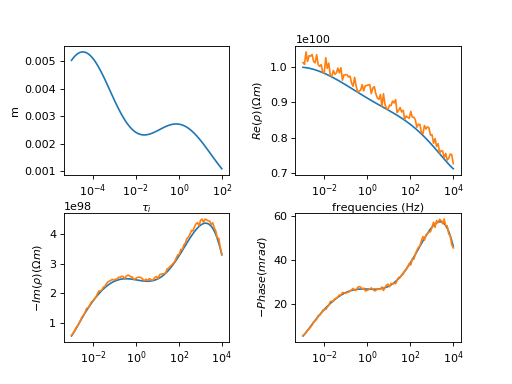
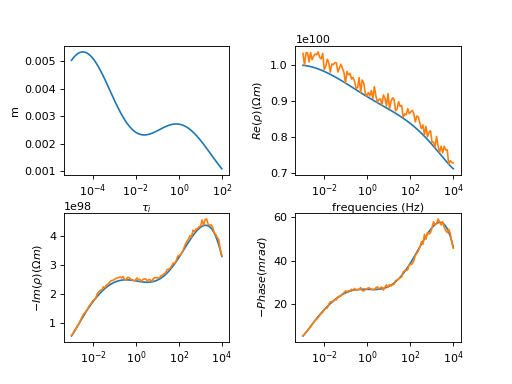
[by travis] update documentation

diff --git a/doc_ccd/_modules/lib_dd/plot.html b/doc_ccd/_modules/lib_dd/plot.html
@@ -54,8 +54,8 @@
 <span class="kn">import</span> <span class="nn">logging</span>
 
 <span class="kn">import</span> <span class="nn">NDimInv.plot_helper</span>
-<span class="n">plt</span><span class="p">,</span> <span class="n">mpl</span> <span class="o">=</span> <span class="n">NDimInv</span><span class="o">.</span><span class="n">plot_helper</span><span class="o">.</span><span class="n">setup</span><span class="p">()</span>
 <span class="kn">import</span> <span class="nn">sip_formats.convert</span> <span class="k">as</span> <span class="nn">sip_convert</span>
+<span class="n">plt</span><span class="p">,</span> <span class="n">mpl</span> <span class="o">=</span> <span class="n">NDimInv</span><span class="o">.</span><span class="n">plot_helper</span><span class="o">.</span><span class="n">setup</span><span class="p">()</span>
 
 
 <div class="viewcode-block" id="plot_iteration"><a class="viewcode-back" href="../../api/lib_dd.html#lib_dd.plot.plot_iteration">[docs]</a><span class="k">class</span> <span class="nc">plot_iteration</span><span class="p">():</span>
@@ -137,7 +137,7 @@
 
         <span class="n">D</span> <span class="o">=</span> <span class="n">it</span><span class="o">.</span><span class="n">Data</span><span class="o">.</span><span class="n">D</span> <span class="o">/</span> <span class="bp">self</span><span class="o">.</span><span class="n">norm_factors</span>
         <span class="n">M</span> <span class="o">=</span> <span class="n">it</span><span class="o">.</span><span class="n">Model</span><span class="o">.</span><span class="n">convert_to_M</span><span class="p">(</span><span class="n">it</span><span class="o">.</span><span class="n">m</span><span class="p">)</span>
-        <span class="c1"># renormalize here? why do we compuate the forward solution again?</span>
+        <span class="c1"># renormalize here? why do we compute the forward solution again?</span>
         <span class="n">F</span> <span class="o">=</span> <span class="n">it</span><span class="o">.</span><span class="n">Model</span><span class="o">.</span><span class="n">F</span><span class="p">(</span><span class="n">M</span><span class="p">)</span> <span class="o">/</span> <span class="bp">self</span><span class="o">.</span><span class="n">norm_factors</span>
         <span class="n">extra_size</span> <span class="o">=</span> <span class="nb">int</span><span class="p">(</span>
             <span class="n">np</span><span class="o">.</span><span class="n">sum</span><span class="p">([</span><span class="n">x</span><span class="p">[</span><span class="mi">1</span><span class="p">][</span><span class="mi">1</span><span class="p">]</span> <span class="k">for</span> <span class="n">x</span> <span class="ow">in</span> <span class="n">it</span><span class="o">.</span><span class="n">Data</span><span class="o">.</span><span class="n">extra_dims</span><span class="o">.</span><span class="n">items</span><span class="p">()]))</span>
@@ -152,6 +152,8 @@
             <span class="bp">self</span><span class="o">.</span><span class="n">_plot_rtd</span><span class="p">(</span><span class="n">nr</span><span class="p">,</span> <span class="n">axes</span><span class="p">[</span><span class="n">nr</span><span class="p">,</span> <span class="mi">4</span><span class="p">],</span> <span class="n">M</span><span class="p">[</span><span class="n">m</span><span class="p">],</span> <span class="n">it</span><span class="p">)</span>
             <span class="n">ax1</span> <span class="o">=</span> <span class="n">axes</span><span class="p">[</span><span class="n">nr</span><span class="p">,</span> <span class="mi">0</span><span class="p">]</span><span class="o">.</span><span class="n">twinx</span><span class="p">()</span>
             <span class="n">ax2</span> <span class="o">=</span> <span class="n">axes</span><span class="p">[</span><span class="n">nr</span><span class="p">,</span> <span class="mi">1</span><span class="p">]</span><span class="o">.</span><span class="n">twinx</span><span class="p">()</span>
+            <span class="k">for</span> <span class="n">ax</span> <span class="ow">in</span> <span class="p">(</span><span class="n">ax1</span><span class="p">,</span> <span class="n">ax2</span><span class="p">):</span>
+                <span class="n">ax</span><span class="o">.</span><span class="n">grid</span><span class="p">(</span><span class="kc">None</span><span class="p">)</span>
             <span class="bp">self</span><span class="o">.</span><span class="n">_plot_cre_cim</span><span class="p">(</span><span class="n">nr</span><span class="p">,</span> <span class="p">[</span><span class="n">ax1</span><span class="p">,</span> <span class="n">ax2</span><span class="p">],</span> <span class="n">D</span><span class="p">[</span><span class="n">d</span><span class="p">],</span> <span class="n">F</span><span class="p">[</span><span class="n">d</span><span class="p">],</span> <span class="n">it</span><span class="p">)</span>
 
         <span class="bp">self</span><span class="o">.</span><span class="n">finalize_fig</span><span class="p">()</span>
@@ -262,7 +264,7 @@
         <span class="n">ax</span><span class="o">.</span><span class="n">semilogx</span><span class="p">(</span><span class="n">frequencies</span><span class="p">,</span> <span class="n">rre_rim_orig</span><span class="p">[:,</span> <span class="mi">0</span><span class="p">],</span> <span class="s1">&#39;.&#39;</span><span class="p">,</span> <span class="n">color</span><span class="o">=</span><span class="s1">&#39;k&#39;</span><span class="p">)</span>
         <span class="n">ax</span><span class="o">.</span><span class="n">semilogx</span><span class="p">(</span><span class="n">frequencies</span><span class="p">,</span> <span class="n">rre_rim_fit</span><span class="p">[:,</span> <span class="mi">0</span><span class="p">],</span> <span class="s1">&#39;-&#39;</span><span class="p">,</span> <span class="n">color</span><span class="o">=</span><span class="s1">&#39;k&#39;</span><span class="p">)</span>
         <span class="n">ax</span><span class="o">.</span><span class="n">set_xlabel</span><span class="p">(</span><span class="s1">&#39;frequency [Hz]&#39;</span><span class="p">)</span>
-        <span class="n">ax</span><span class="o">.</span><span class="n">set_ylabel</span><span class="p">(</span><span class="sa">r</span><span class="s2">&quot;$-\rho&#39;~[\Omega m]$&quot;</span><span class="p">)</span>
+        <span class="n">ax</span><span class="o">.</span><span class="n">set_ylabel</span><span class="p">(</span><span class="sa">r</span><span class="s2">&quot;$\rho&#39;~[\Omega m]$&quot;</span><span class="p">)</span>
         <span class="n">ax</span><span class="o">.</span><span class="n">xaxis</span><span class="o">.</span><span class="n">set_major_locator</span><span class="p">(</span><span class="n">mpl</span><span class="o">.</span><span class="n">ticker</span><span class="o">.</span><span class="n">LogLocator</span><span class="p">(</span><span class="n">numticks</span><span class="o">=</span><span class="mi">4</span><span class="p">))</span>
 
         <span class="n">ax</span> <span class="o">=</span> <span class="n">axes</span><span class="p">[</span><span class="mi">1</span><span class="p">]</span>
@@ -271,7 +273,7 @@
         <span class="n">ax</span><span class="o">.</span><span class="n">semilogx</span><span class="p">(</span><span class="n">frequencies</span><span class="p">,</span> <span class="o">-</span><span class="n">rre_rim_fit</span><span class="p">[:,</span> <span class="mi">1</span><span class="p">],</span> <span class="s1">&#39;-&#39;</span><span class="p">,</span> <span class="n">color</span><span class="o">=</span><span class="s1">&#39;k&#39;</span><span class="p">,</span>
                     <span class="n">label</span><span class="o">=</span><span class="s1">&#39;fit&#39;</span><span class="p">)</span>
         <span class="n">ax</span><span class="o">.</span><span class="n">set_xlabel</span><span class="p">(</span><span class="s1">&#39;frequency [Hz]&#39;</span><span class="p">)</span>
-        <span class="n">ax</span><span class="o">.</span><span class="n">set_ylabel</span><span class="p">(</span><span class="sa">r</span><span class="s2">&quot;$-\rho&#39;&#39;~[\Omega m]$&quot;</span><span class="p">)</span>
+        <span class="n">ax</span><span class="o">.</span><span class="n">set_ylabel</span><span class="p">(</span><span class="sa">r</span><span class="s2">&quot;$\rho&#39;&#39;~[\Omega m]$&quot;</span><span class="p">)</span>
         <span class="n">ax</span><span class="o">.</span><span class="n">xaxis</span><span class="o">.</span><span class="n">set_major_locator</span><span class="p">(</span><span class="n">mpl</span><span class="o">.</span><span class="n">ticker</span><span class="o">.</span><span class="n">LogLocator</span><span class="p">(</span><span class="n">numticks</span><span class="o">=</span><span class="mi">4</span><span class="p">))</span>
 
         <span class="bp">self</span><span class="o">.</span><span class="n">_mark_tau_parameters_f</span><span class="p">(</span><span class="n">nr</span><span class="p">,</span> <span class="n">ax</span><span class="p">,</span> <span class="n">it</span><span class="p">)</span>
@@ -295,7 +297,7 @@
                     <span class="n">ax</span><span class="o">.</span><span class="n">axvline</span><span class="p">(</span><span class="n">x</span><span class="o">=</span><span class="mi">10</span><span class="o">**</span><span class="n">tpeak</span><span class="p">,</span> <span class="n">color</span><span class="o">=</span><span class="s1">&#39;k&#39;</span><span class="p">,</span> <span class="n">label</span><span class="o">=</span><span class="sa">r</span><span class="s1">&#39;$\tau_</span><span class="si">{peak}</span><span class="s1">^&#39;</span> <span class="o">+</span>
                                <span class="s1">&#39;</span><span class="si">{0}</span><span class="s1">&#39;</span><span class="o">.</span><span class="n">format</span><span class="p">(</span><span class="n">index</span><span class="p">)</span> <span class="o">+</span> <span class="s1">&#39;$&#39;</span><span class="p">,</span>
                                <span class="n">linestyle</span><span class="o">=</span><span class="s1">&#39;dashed&#39;</span><span class="p">)</span>
-            <span class="k">except</span><span class="p">:</span>
+            <span class="k">except</span> <span class="ne">Exception</span><span class="p">:</span>
                 <span class="k">pass</span>
 
         <span class="k">try</span><span class="p">:</span>

diff --git a/doc_ccd/api/lib_dd.conductivity.html b/doc_ccd/api/lib_dd.conductivity.html
@@ -167,21 +167,7 @@ denotes all chargeability values corresponding to the relaxation times.</p>
 <li class="toctree-l1"><a class="reference internal" href="../usage_and_implementation.html">Usage and implementation details</a></li>
 <li class="toctree-l1"><a class="reference internal" href="../debugging.html">Profiling and Debugging</a></li>
 <li class="toctree-l1 current"><a class="reference internal" href="../api.html">API</a><ul class="current">
-<li class="toctree-l2 current"><a class="reference internal" href="lib_dd.html">lib_dd package</a><ul class="current">
-<li class="toctree-l3 current"><a class="reference internal" href="lib_dd.html#subpackages">Subpackages</a></li>
-<li class="toctree-l3"><a class="reference internal" href="lib_dd.html#submodules">Submodules</a></li>
-<li class="toctree-l3"><a class="reference internal" href="lib_dd.html#module-lib_dd.Jacobian">lib_dd.Jacobian module</a></li>
-<li class="toctree-l3"><a class="reference internal" href="lib_dd.html#module-lib_dd.base_class">lib_dd.base_class module</a></li>
-<li class="toctree-l3"><a class="reference internal" href="lib_dd.html#module-lib_dd.int_pars">lib_dd.int_pars module</a></li>
-<li class="toctree-l3"><a class="reference internal" href="lib_dd.html#module-lib_dd.interface">lib_dd.interface module</a></li>
-<li class="toctree-l3"><a class="reference internal" href="lib_dd.html#module-lib_dd.plot">lib_dd.plot module</a></li>
-<li class="toctree-l3"><a class="reference internal" href="lib_dd.html#module-lib_dd.plot_stats">lib_dd.plot_stats module</a></li>
-<li class="toctree-l3"><a class="reference internal" href="lib_dd.html#module-lib_dd.starting_parameters">lib_dd.starting_parameters module</a></li>
-<li class="toctree-l3"><a class="reference internal" href="lib_dd.html#module-lib_dd.test_functions">lib_dd.test_functions module</a></li>
-<li class="toctree-l3"><a class="reference internal" href="lib_dd.html#module-lib_dd.version">lib_dd.version module</a></li>
-<li class="toctree-l3"><a class="reference internal" href="lib_dd.html#module-lib_dd">Module contents</a></li>
-</ul>
-</li>
+<li class="toctree-l2"><a class="reference internal" href="lib_dd.html">lib_dd package</a></li>
 <li class="toctree-l2 current"><a class="current reference internal" href="#">lib_dd.conductivity package</a><ul>
 <li class="toctree-l3"><a class="reference internal" href="#submodules">Submodules</a></li>
 <li class="toctree-l3"><a class="reference internal" href="#module-lib_dd.conductivity.model">lib_dd.conductivity.model module</a></li>

diff --git a/doc_ccd/programs/ddps.html b/doc_ccd/programs/ddps.html
@@ -60,36 +60,36 @@ Options:
   --plot_to_grid        Plot results to grid
   --elem=ELEM_FILE      elem.dat file (default: elem.dat)
   --elec=ELEC_FILE      elec.dat file (default: elec.dat)
-  --tau_mean_min=TAU_MEAN_MIN
-                        Min value for tau_mean
-  --tau_mean_max=TAU_MEAN_MAX
-                        Max value for tau_mean
-  --tau_peak1_min=TAU_PEAK1_MIN
-                        Min value for tau_peak1
-  --tau_peak1_max=TAU_PEAK1_MAX
-                        Max value for tau_peak1
-  --m_tot_min=M_TOT_MIN
-                        Min value for m_tot
-  --m_tot_max=M_TOT_MAX
-                        Max value for m_tot
-  --m_tot_n_min=M_TOT_N_MIN
-                        Min value for m_tot_n
-  --m_tot_n_max=M_TOT_N_MAX
-                        Max value for m_tot_n
-  --U_tau_min=U_TAU_MIN
-                        Min value for U_tau
-  --U_tau_max=U_TAU_MAX
-                        Max value for U_tau
-  --tau_50_min=TAU_50_MIN
-                        Min value for tau_50
-  --tau_50_max=TAU_50_MAX
-                        Max value for tau_50
-  --rho0_min=RHO0_MIN   Min value for rho0
-  --rho0_max=RHO0_MAX   Max value for rho0
   --sigma0_min=SIGMA0_MIN
                         Min value for sigma0
   --sigma0_max=SIGMA0_MAX
                         Max value for sigma0
+  --m_tot_n_min=M_TOT_N_MIN
+                        Min value for m_tot_n
+  --m_tot_n_max=M_TOT_N_MAX
+                        Max value for m_tot_n
+  --tau_peak1_min=TAU_PEAK1_MIN
+                        Min value for tau_peak1
+  --tau_peak1_max=TAU_PEAK1_MAX
+                        Max value for tau_peak1
+  --U_tau_min=U_TAU_MIN
+                        Min value for U_tau
+  --U_tau_max=U_TAU_MAX
+                        Max value for U_tau
+  --tau_mean_min=TAU_MEAN_MIN
+                        Min value for tau_mean
+  --tau_mean_max=TAU_MEAN_MAX
+                        Max value for tau_mean
+  --m_tot_min=M_TOT_MIN
+                        Min value for m_tot
+  --m_tot_max=M_TOT_MAX
+                        Max value for m_tot
+  --rho0_min=RHO0_MIN   Min value for rho0
+  --rho0_max=RHO0_MAX   Max value for rho0
+  --tau_50_min=TAU_50_MIN
+                        Min value for tau_50
+  --tau_50_max=TAU_50_MAX
+                        Max value for tau_50
   --filter              Apply filters and save to new directory
   --maskfile=FILE       Mask file for filtering: discard all other pixels
                         (start at 0)

diff --git a/doc_ccd/api/lib_dd.io.html b/doc_ccd/api/lib_dd.io.html
@@ -144,21 +144,7 @@ dd_single.py/dd_time.py/dd_space_time.py</p>
 <li class="toctree-l1"><a class="reference internal" href="../usage_and_implementation.html">Usage and implementation details</a></li>
 <li class="toctree-l1"><a class="reference internal" href="../debugging.html">Profiling and Debugging</a></li>
 <li class="toctree-l1 current"><a class="reference internal" href="../api.html">API</a><ul class="current">
-<li class="toctree-l2 current"><a class="reference internal" href="lib_dd.html">lib_dd package</a><ul class="current">
-<li class="toctree-l3 current"><a class="reference internal" href="lib_dd.html#subpackages">Subpackages</a></li>
-<li class="toctree-l3"><a class="reference internal" href="lib_dd.html#submodules">Submodules</a></li>
-<li class="toctree-l3"><a class="reference internal" href="lib_dd.html#module-lib_dd.Jacobian">lib_dd.Jacobian module</a></li>
-<li class="toctree-l3"><a class="reference internal" href="lib_dd.html#module-lib_dd.base_class">lib_dd.base_class module</a></li>
-<li class="toctree-l3"><a class="reference internal" href="lib_dd.html#module-lib_dd.int_pars">lib_dd.int_pars module</a></li>
-<li class="toctree-l3"><a class="reference internal" href="lib_dd.html#module-lib_dd.interface">lib_dd.interface module</a></li>
-<li class="toctree-l3"><a class="reference internal" href="lib_dd.html#module-lib_dd.plot">lib_dd.plot module</a></li>
-<li class="toctree-l3"><a class="reference internal" href="lib_dd.html#module-lib_dd.plot_stats">lib_dd.plot_stats module</a></li>
-<li class="toctree-l3"><a class="reference internal" href="lib_dd.html#module-lib_dd.starting_parameters">lib_dd.starting_parameters module</a></li>
-<li class="toctree-l3"><a class="reference internal" href="lib_dd.html#module-lib_dd.test_functions">lib_dd.test_functions module</a></li>
-<li class="toctree-l3"><a class="reference internal" href="lib_dd.html#module-lib_dd.version">lib_dd.version module</a></li>
-<li class="toctree-l3"><a class="reference internal" href="lib_dd.html#module-lib_dd">Module contents</a></li>
-</ul>
-</li>
+<li class="toctree-l2"><a class="reference internal" href="lib_dd.html">lib_dd package</a></li>
 <li class="toctree-l2"><a class="reference internal" href="lib_dd.conductivity.html">lib_dd.conductivity package</a></li>
 <li class="toctree-l2 current"><a class="current reference internal" href="#">lib_dd.io package</a><ul>
 <li class="toctree-l3"><a class="reference internal" href="#submodules">Submodules</a></li>

diff --git a/doc_ccd/environment_vars.html b/doc_ccd/environment_vars.html
@@ -111,13 +111,13 @@ this:</p>
 <li class="toctree-l1"><a class="reference internal" href="installation.html">Installation</a></li>
 <li class="toctree-l1"><a class="reference internal" href="getting_started.html">Getting Started</a></li>
 <li class="toctree-l1 current"><a class="reference internal" href="fit_routines.html">Fit Routines</a><ul class="current">
-<li class="toctree-l2"><a class="reference internal" href="programs/ccd_single.html">ccd_single</a></li>
-<li class="toctree-l2 current"><a class="reference internal" href="programs/ccd_time.html">ccd_time</a><ul class="current">
+<li class="toctree-l2 current"><a class="reference internal" href="programs/ccd_single.html">ccd_single</a><ul class="current">
 <li class="toctree-l3 current"><a class="current reference internal" href="#">Environment variables</a></li>
-<li class="toctree-l3"><a class="reference internal" href="programs/ccd_time.html#command-line-options">Command line options</a></li>
-<li class="toctree-l3"><a class="reference internal" href="programs/ccd_time.html#regularisation-parameters">Regularisation Parameters</a></li>
+<li class="toctree-l3"><a class="reference internal" href="programs/ccd_single.html#command-line-options">Command line options</a></li>
+<li class="toctree-l3"><a class="reference internal" href="programs/ccd_single.html#usage-examples">Usage Examples</a></li>
 </ul>
 </li>
+<li class="toctree-l2"><a class="reference internal" href="programs/ccd_time.html">ccd_time</a></li>
 <li class="toctree-l2"><a class="reference internal" href="programs/ddps.html">ddps.py</a></li>
 </ul>
 </li>

diff --git a/doc_ccd/getting_started.html b/doc_ccd/getting_started.html
@@ -44,7 +44,7 @@ and provides two detailed usage examples.</p>
 </div>
 <div class="section" id="workflow">
 <h2>Workflow<a class="headerlink" href="#workflow" title="Permalink to this headline">¶</a></h2>
-<div><a class="reference internal image-reference" href="_images/blockdiag-bf5fba425fc930d6d8353cbf6695262ead8185f3.png"><img height="132.0" src="_images/blockdiag-bf5fba425fc930d6d8353cbf6695262ead8185f3.png" width="1126.4" /></a></div><p>Given one or more SIP spectra in form of a frequency file and a data file, the
+<div><a class="reference internal image-reference" href="_images/blockdiag-9f57f63ba60ecd360cd980b2ef2a7aaf96636ea7.png"><img height="132.0" src="_images/blockdiag-9f57f63ba60ecd360cd980b2ef2a7aaf96636ea7.png" width="1126.4" /></a></div><p>Given one or more SIP spectra in form of a frequency file and a data file, the
 decomposition commands could be called directly. However, given the large
 number of possible command line options (and environment variables), it is
 recommended to create a batch file with the command call. This ensures

diff --git a/doc_ccd/theory_overview.html b/doc_ccd/theory_overview.html
@@ -36,7 +36,7 @@
             
   <div class="section" id="overview">
 <h1>Overview<a class="headerlink" href="#overview" title="Permalink to this headline">¶</a></h1>
-<div><img height="520" src="_images/blockdiag-6186d5fc68b63b84c96080e1e54f7297cecc98f1.png" width="832" /></div><p>Within the scope of this project, the models used to described (i.e. fit) SIP
+<div><img height="520" src="_images/blockdiag-df2a2109a67a0fb25842255f36f7c2c5627fab08.png" width="832" /></div><p>Within the scope of this project, the models used to described (i.e. fit) SIP
 signatures are divided in formulations using the resistivity and the
 conductivity. Within these categories, signatures can either be described by
 one term following the Cole-Cole model, or by a superposition of Cole-Cole
